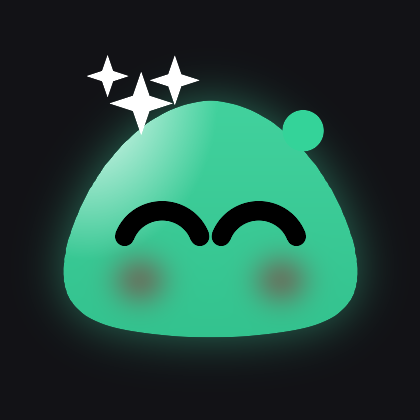
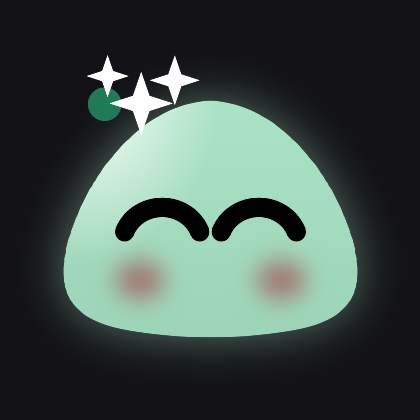
LUPY 3: polish pass — measured pastels, reference-accurate badges, fixed arcs
Founder locked M2 as the character and chose the polish pass first.
- State colours resampled from the founder's reference tiles (pastel, not
  saturated): working #9FD8F5, thinking #C9AEEC, searching #8F86DE,
  approval #F9D49B, question #86E0EC, error #F98C86, finished #A8E6C6,
  ratelimit #F9AE77, sleeping #F6E3CD, dizzy #F3BDBF
- Badges corrected to the reference: upper-LEFT, speech bubble with white dots
  (working/thinking/searching), amber ! circle (approval), cyan ? circle
  (question), dark ring (error), green dot (finished/ratelimit)
- happy = cap arch (n), closed = cup smile (u) — matching ref tiles 08 and 10
- Blush softened to #F6A9A1 at 0.42 with a wider soft falloff
- Spirals enlarged; dizzy bubbles moved to the upper-left trail
Renderer bugs fixed: -composite only merges TWO images (extra badge layers were
silently dropped) -> -layers flatten; bubble+tail must share one fill layer or
the tail is hidden under the rounded rect.

Changed region(s): [[0.1238, 0.2167, 0.8667, 0.8048], [0.1857, 0.1857, 0.3095, 0.3095]]

diff --git a/tools/character/render_states.py b/tools/character/render_states.py
@@ -48,32 +48,33 @@ def shade(hexcolour, amount):
 
 # ------------------------------------------------------------------ states ---
 STATES = [
-    ("idle",      "idle",      "#FFFFFF", "pill",     None,      0.20, None),
-    ("working",   "working",   "#3B9EFF", "pill",     "dots",    0.50, None),
-    ("thinking",  "thinking",  "#8B5CF6", "pill",     "dots",    0.46, None),
-    ("searching", "searching", "#635FF2", "pill",     "dots",    0.50, None),
-    ("approval",  "approval",  "#F5A523", "wide",     "bang",    0.55, None),
-    ("question",  "question",  "#22D3EE", "pill",     "question",0.50, None),
-    ("error",     "error",     "#F4505E", "flat",     "dot",     0.50, None),
-    ("finished",  "finished",  "#34D399", "happy",    "dot",     0.46, "sparkle"),
-    ("ratelimit", "ratelimit", "#F0923C", "tired",    "dot",     0.42, "sweat"),
-    ("sleeping",  "sleeping",  "#94A2B8", "closed",   None,      0.18, "zzz"),
-    ("dizzy",     "dizzy",     "#F472B6", "spiral",   None,      0.50, "bubbles"),
+    # key,        label,       body colour, eye,        badge,     halo, extra
+    # body colours sampled from the founder's reference tiles, then tuned to pastel
+    ("idle",      "idle",      "#FFFFFF", "pill",     None,      0.22, None),
+    ("working",   "working",   "#9FD8F5", "pill",     "dots",    0.50, None),
+    ("thinking",  "thinking",  "#C9AEEC", "pill",     "dots",    0.46, None),
+    ("searching", "searching", "#8F86DE", "pill",     "dots",    0.50, None),
+    ("approval",  "approval",  "#F9D49B", "wide",     "bang",    0.55, None),
+    ("question",  "question",  "#86E0EC", "pill",     "question",0.50, None),
+    ("error",     "error",     "#F98C86", "flat",     "ring",    0.50, None),
+    ("finished",  "finished",  "#A8E6C6", "happy",    "dot",     0.46, "sparkle"),
+    ("ratelimit", "ratelimit", "#F9AE77", "tired",    "dot",     0.42, "sweat"),
+    ("sleeping",  "sleeping",  "#F6E3CD", "closed",   None,      0.20, "zzz"),
+    ("dizzy",     "dizzy",     "#F3BDBF", "spiral",   None,      0.50, "bubbles"),
 ]
 
 EMOTES = [
-    ("love",      "love",      "#FF6B9D", "heart",   None, 0.42, None),
+    ("love",      "love",      "#FFC2D6", "heart",   None, 0.42, None),
     ("surprised", "surprised", "#FFFFFF", "wide",    None, 0.28, None),
     ("wink",      "wink",      "#FFFFFF", "wink",    None, 0.24, None),
     ("happy",     "happy",     "#FFFFFF", "happy",   None, 0.32, None),
-    ("annoyed",   "annoyed",   "#E8E8EF", "line",    None, 0.18, None),
+    ("annoyed",   "annoyed",   "#F2DCD8", "line",    None, 0.18, None),
     ("yawn",      "yawn",      "#FFFFFF", "closed",  None, 0.18, "zzz"),
-    ("proud",     "proud",     "#FFFFFF", "star",    None, 0.32, "sparkle"),
-    ("listening", "listening", "#5EEAD4", "wide",    None, 0.46, None),
+    ("proud",     "proud",     "#FFF0C4", "star",    None, 0.32, "sparkle"),
+    ("listening", "listening", "#A8E8DC", "wide",    None, 0.46, None),
 ]
 
 
-# ------------------------------------------------------------------ layers ---
 def alpha_layer(W, H, draws, stroke=None, fill="white", tmp=""):
     """Transparent RGBA canvas with shapes drawn on it."""
     out = os.path.join(tmp, "layer.png")
@@ -121,12 +122,12 @@ def eye_draws(shape, spec, scale, cx, base_y):
             w, h = ew * 1.20, eh * 0.36
             solid.append(rounded(ex, cy + eh * 0.14, w, h, h / 2))
         elif shape == "happy":
-            stroke.append(f"ellipse {ex:.1f},{cy + eh*0.16:.1f} {ew*0.98:.1f},{eh*0.46:.1f} 200,340")
+            stroke.append(f"ellipse {ex:.1f},{cy + eh*0.10:.1f} {ew*0.98:.1f},{eh*0.44:.1f} 200,340")
         elif shape == "closed":
-            stroke.append(f"ellipse {ex:.1f},{cy + eh*0.20:.1f} {ew*0.94:.1f},{eh*0.46:.1f} 200,340")
+            stroke.append(f"ellipse {ex:.1f},{cy - eh*0.12:.1f} {ew*0.98:.1f},{eh*0.42:.1f} 20,160")
         elif shape == "wink":
             if sgn < 0:
-                stroke.append(f"ellipse {ex:.1f},{cy + eh*0.18:.1f} {ew*0.9:.1f},{eh*0.44:.1f} 200,340")
+                stroke.append(f"ellipse {ex:.1f},{cy - eh*0.10:.1f} {ew*0.94:.1f},{eh*0.40:.1f} 20,160")
             else:
                 solid.append(rounded(ex, cy, ew, eh, ew / 2))
         elif shape == "spiral":
@@ -134,7 +135,7 @@ def eye_draws(shape, spec, scale, cx, base_y):
             turns = 2.6
             for i in range(96):
                 a = i / 95 * turns * 2 * math.pi
-                r = ew * 0.10 + (i / 95) * ew * 0.62
+                r = ew * 0.10 + (i / 95) * ew * 1.05
                 x_ = ex + math.cos(a) * r
                 y_ = cy - math.sin(a) * r
                 moves.append(("M" if i == 0 else "L") + f" {x_:.1f},{y_:.1f}")
@@ -158,35 +159,48 @@ def eye_draws(shape, spec, scale, cx, base_y):
 
 
 def badge_draws(kind, colour, scale, cx, base_y):
-    """Reference-style badge: a rounded speech bubble sitting on the upper-right edge."""
+    """Reference-style badge: sits on the body's UPPER-LEFT edge."""
     if not kind:
         return []
-    bx, by = cx + 0.315 * scale, base_y - 0.70 * scale
-    r = 0.115 * scale
-    bw, bh = r * 2.30, r * 1.85
-    tail = (f"polygon {bx-r*0.30:.1f},{by+bh*0.42:.1f} {bx+r*0.34:.1f},{by+bh*0.42:.1f} "
-            f"{bx-r*0.52:.1f},{by+bh*1.02:.1f}")
+    bx = cx - 0.360 * scale
+    by = base_y - 0.790 * scale
+    bw, bh = 0.262 * scale, 0.188 * scale
+    r = bh * 0.46
 
     if kind == "dots":
-        d = [(rounded(bx, by, bw, bh, r * 0.62), colour), (tail, colour)]
-        for o in (-r * 0.52, 0, r * 0.52):
-            d.append((f"circle {bx+o:.1f},{by-r*0.05:.1f} {bx+o+r*0.19:.1f},{by-r*0.05:.1f}", "white"))
+        # bubble body + tail in ONE draw (same layer), then white dots on top
+        tail = (f"polygon {bx+bw*0.02:.1f},{by+bh*0.22:.1f} {bx+bw*0.40:.1f},{by+bh*0.22:.1f} "
+                f"{bx+bw*0.14:.1f},{by+bh*0.92:.1f}")
+        d = [("GROUP", " ".join([rounded(bx, by, bw, bh, r), tail]), colour)]
+        for o in (-bw * 0.22, 0, bw * 0.22):
+            dr = bh * 0.135
+            d.append(("WHITE", f"circle {bx+o:.1f},{by:.1f} {bx+o+dr:.1f},{by:.1f}", "white"))
         return d
+
     if kind == "bang":
-        d = [(rounded(bx, by, bw, bh, r * 0.62), colour), (tail, colour)]
-        d.append((rounded(bx, by - r * 0.10, r * 0.26, r * 0.66, r * 0.13), "white"))
-        d.append((f"circle {bx:.1f},{by+r*0.52:.1f} {bx+r*0.15:.1f},{by+r*0.52:.1f}", "white"))
+        d = [("GROUP", f"circle {bx:.1f},{by:.1f} {bx+bh*0.52:.1f},{by:.1f}", colour)]
+        d.append(("WHITE", rounded(bx, by - bh * 0.10, bw * 0.115, bh * 0.42, bw * 0.058), "white"))
+        d.append(("WHITE", f"circle {bx:.1f},{by+bh*0.26:.1f} {bx+bh*0.062:.1f},{by+bh*0.26:.1f}", "white"))
         return d
+
     if kind == "question":
-        d = [(rounded(bx, by, bw, bh, r * 0.62), colour), (tail, colour)]
-        # simple question mark: hook arc + dot
-        d.append((f"ellipse {bx:.1f},{by-r*0.28:.1f} {r*0.30:.1f},{r*0.30:.1f} 200,20", "white"))
-        d.append((f"path 'M {bx-r*0.30:.1f},{by-r*0.05:.1f} L {bx:.1f},{by+r*0.22:.1f}'", "white"))
-        d.append((f"circle {bx:.1f},{by+r*0.48:.1f} {bx+r*0.13:.1f},{by+r*0.48:.1f}", "white"))
+        d = [("GROUP", f"circle {bx:.1f},{by:.1f} {bx+bh*0.52:.1f},{by:.1f}", colour)]
+        d.append(("ELLIPSE", f"{bx:.1f},{by-bh*0.16:.1f} {bw*0.10:.1f},{bh*0.13:.1f} 190,20", "white"))
+        d.append(("LINE", f"{bx+bw*0.095:.1f},{by-bh*0.02:.1f} {bx:.1f},{by+bh*0.12:.1f}", "white"))
+        d.append(("WHITE", f"circle {bx:.1f},{by+bh*0.27:.1f} {bx+bh*0.058:.1f},{by+bh*0.27:.1f}", "white"))
         return d
+
+    if kind == "ring":
+        return [("RING", f"{bx:.1f},{by:.1f} {bx+bh*0.42:.1f},{by:.1f}", "#8E2B2B")]
+
     if kind == "dot":
-        return [(f"circle {bx:.1f},{by:.1f} {bx+r*0.60:.1f},{by:.1f}", colour)]
+        return [(f"circle {bx:.1f},{by:.1f} {bx+bh*0.30:.1f},{by:.1f}", "#1F7A55")]
+
     return []
+
+
+def bh_stroke(scale):
+    return 0.016 * scale
 
 
 def extra_draws(extra, W, H, scale, cx, base_y):
@@ -211,8 +225,8 @@ def extra_draws(extra, W, H, scale, cx, base_y):
             d.append(f"polygon {x-s:.1f},{y-s:.1f} {x+s:.1f},{y-s:.1f} "
                      f"{x-s:.1f},{y+s:.1f} {x+s:.1f},{y+s:.1f}")
     if extra == "bubbles":
-        for (bx, by, br) in ((0.300, 0.300, 0.024), (0.362, 0.248, 0.017),
-                             (0.412, 0.196, 0.011)):
+        for (bx, by, br) in ((0.245, 0.255, 0.026), (0.170, 0.180, 0.018),
+                             (0.120, 0.115, 0.012)):
             x, y, r = bx * W, by * H, br * W
             d.append(f"circle {x:.1f},{y:.1f} {x+r:.1f},{y:.1f}")
     return d
@@ -262,8 +276,8 @@ def render_state(key, label, colour, eye, badge, halo, extra, spec, outdir, tile
                  f"{b['radius_x']*scale:.1f},{b['radius_y']*scale:.1f} 0,360",
         "-draw", f"ellipse {cx+b['centre_x']*scale:.1f},{base_y-b['centre_y_from_bottom']*scale:.1f} "
                  f"{b['radius_x']*scale:.1f},{b['radius_y']*scale:.1f} 0,360",
-        "-blur", f"0x{int(0.038*W)}",
-        "-evaluate", "multiply", str(b["opacity"]*1.5), blush)
+        "-blur", f"0x{int(0.030*W)}",
+        "-evaluate", "multiply", str(b["opacity"]*1.55), blush)
     blush_c = os.path.join(tmp, "blushc.png")
     run("convert", blush, mask, "-compose", "DstIn", "-composite", blush_c)
 
@@ -299,23 +313,35 @@ def render_state(key, label, colour, eye, badge, halo, extra, spec, outdir, tile
 
     # ---- badge ----
     badge_img = None
-    bd = badge_draws(badge, shade(colour, 0.0), scale, cx, base_y)
+    bd = badge_draws(badge, colour, scale, cx, base_y)
     if bd:
         badge_img = os.path.join(tmp, "badge.png")
         layers = []
-        for d, col in bd:
-            l = os.path.join(tmp, f"b{len(layers)}.png")
-            stroke = d.startswith("ellipse") or d.startswith("path 'M")
-            run("convert", "-size", f"{W}x{H}", "xc:none",
-                "-fill", "none" if stroke else col,
-                "-stroke", col if stroke else "none",
-                "-strokewidth", f"{max(2.0, 0.022*scale):.1f}",
-                "-draw", d, l)
+        for item in bd:
+            tag = item[0]
+            if tag in ("GROUP", "WHITE"):
+                d, col = item[1], item[2]
+                l = os.path.join(tmp, f"b{len(layers)}.png")
+                run("convert", "-size", f"{W}x{H}", "xc:none", "-fill", col,
+                    "-stroke", "none", "-draw", d, l)
+            elif tag in ("ELLIPSE", "LINE", "RING"):
+                d, col = item[1], item[2]
+                l = os.path.join(tmp, f"b{len(layers)}.png")
+                draw_cmd = {"ELLIPSE": f"ellipse {d}", "LINE": f"line {d}",
+                            "RING": f"circle {d}"}[tag]
+                run("convert", "-size", f"{W}x{H}", "xc:none", "-fill", "none",
+                    "-stroke", col, "-strokewidth", f"{max(2.0, bh_stroke(scale)):.1f}",
+                    "-draw", draw_cmd, l)
+            else:
+                d, col = item[0], item[1]
+                l = os.path.join(tmp, f"b{len(layers)}.png")
+                run("convert", "-size", f"{W}x{H}", "xc:none", "-fill", col,
+                    "-stroke", "none", "-draw", d, l)
             layers.append(l)
         if len(layers) == 1:
             shutil.copy(layers[0], badge_img)
         else:
-            run("convert", *layers, "-compose", "over", "-composite", badge_img)
+            run("convert", "-background", "none", *layers, "-layers", "flatten", badge_img)
 
     # ---- compose ----
     out = os.path.join(outdir, f"lupy-{key}.png")
